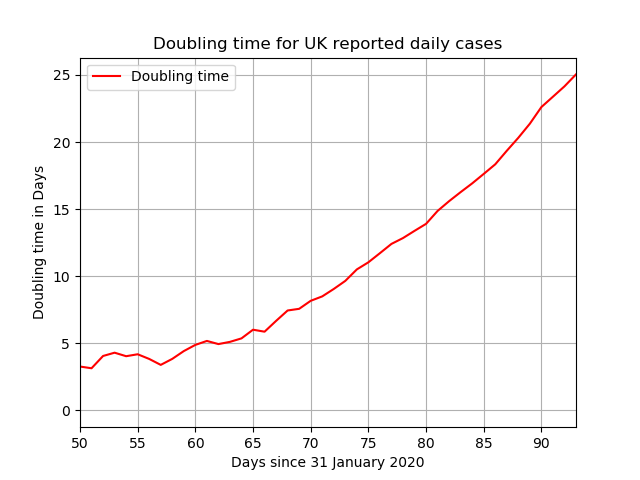
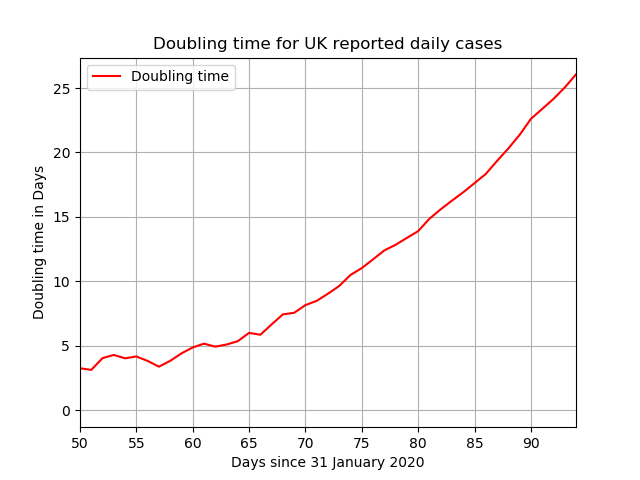
Daily run

diff --git a/README.md b/README.md
@@ -42,17 +42,17 @@ It is the combination that produces the lowest error.
 Output Details
 --------------
 <h3>Exponential function coefficients for new cases</h3>
-[366.09101199   1.02806669]
+[386.84714275   1.02695864]
 <h4>Covariance of coefficients</h4>
-[[ 9.58685842e+03 -3.38137378e-01]
- [-3.38137378e-01  1.24955343e-05]]
+[[ 1.05139366e+04 -3.48217359e-01]
+ [-3.48217359e-01  1.21124115e-05]]
 <h3>Exponential function coefficients for daily deaths</h3>
-[39.96228902  1.03441938]
+[44.69678055  1.03238558]
 <h4>Covariance of coefficients</h4>
-[[ 1.52284481e+02 -4.84033481e-02]
- [-4.84033481e-02  1.58846518e-05]] <br/>
+[[ 1.93387408e+02 -5.45401847e-02]
+ [-5.45401847e-02  1.59329189e-05]] <br/>
 <h3>Best offset and factor for third graph</h3>
 6 18%
 <h4>Average Error</h4>
-97.04
-<br /><br />Last updated on 2020-05-02 17:19:27.474676
+98.30
+<br /><br />Last updated on 2020-05-04 08:29:08.764244

diff --git a/out/fit.md b/out/fit.md
@@ -1,15 +1,15 @@
 <h3>Exponential function coefficients for new cases</h3>
-[366.09101199   1.02806669]
+[386.84714275   1.02695864]
 <h4>Covariance of coefficients</h4>
-[[ 9.58685842e+03 -3.38137378e-01]
- [-3.38137378e-01  1.24955343e-05]]
+[[ 1.05139366e+04 -3.48217359e-01]
+ [-3.48217359e-01  1.21124115e-05]]
 <h3>Exponential function coefficients for daily deaths</h3>
-[39.96228902  1.03441938]
+[44.69678055  1.03238558]
 <h4>Covariance of coefficients</h4>
-[[ 1.52284481e+02 -4.84033481e-02]
- [-4.84033481e-02  1.58846518e-05]] <br/>
+[[ 1.93387408e+02 -5.45401847e-02]
+ [-5.45401847e-02  1.59329189e-05]] <br/>
 <h3>Best offset and factor for third graph</h3>
 6 18%
 <h4>Average Error</h4>
-97.04
-<br /><br />Last updated on 2020-05-02 17:19:27.474676
+98.30
+<br /><br />Last updated on 2020-05-04 08:29:08.764244
